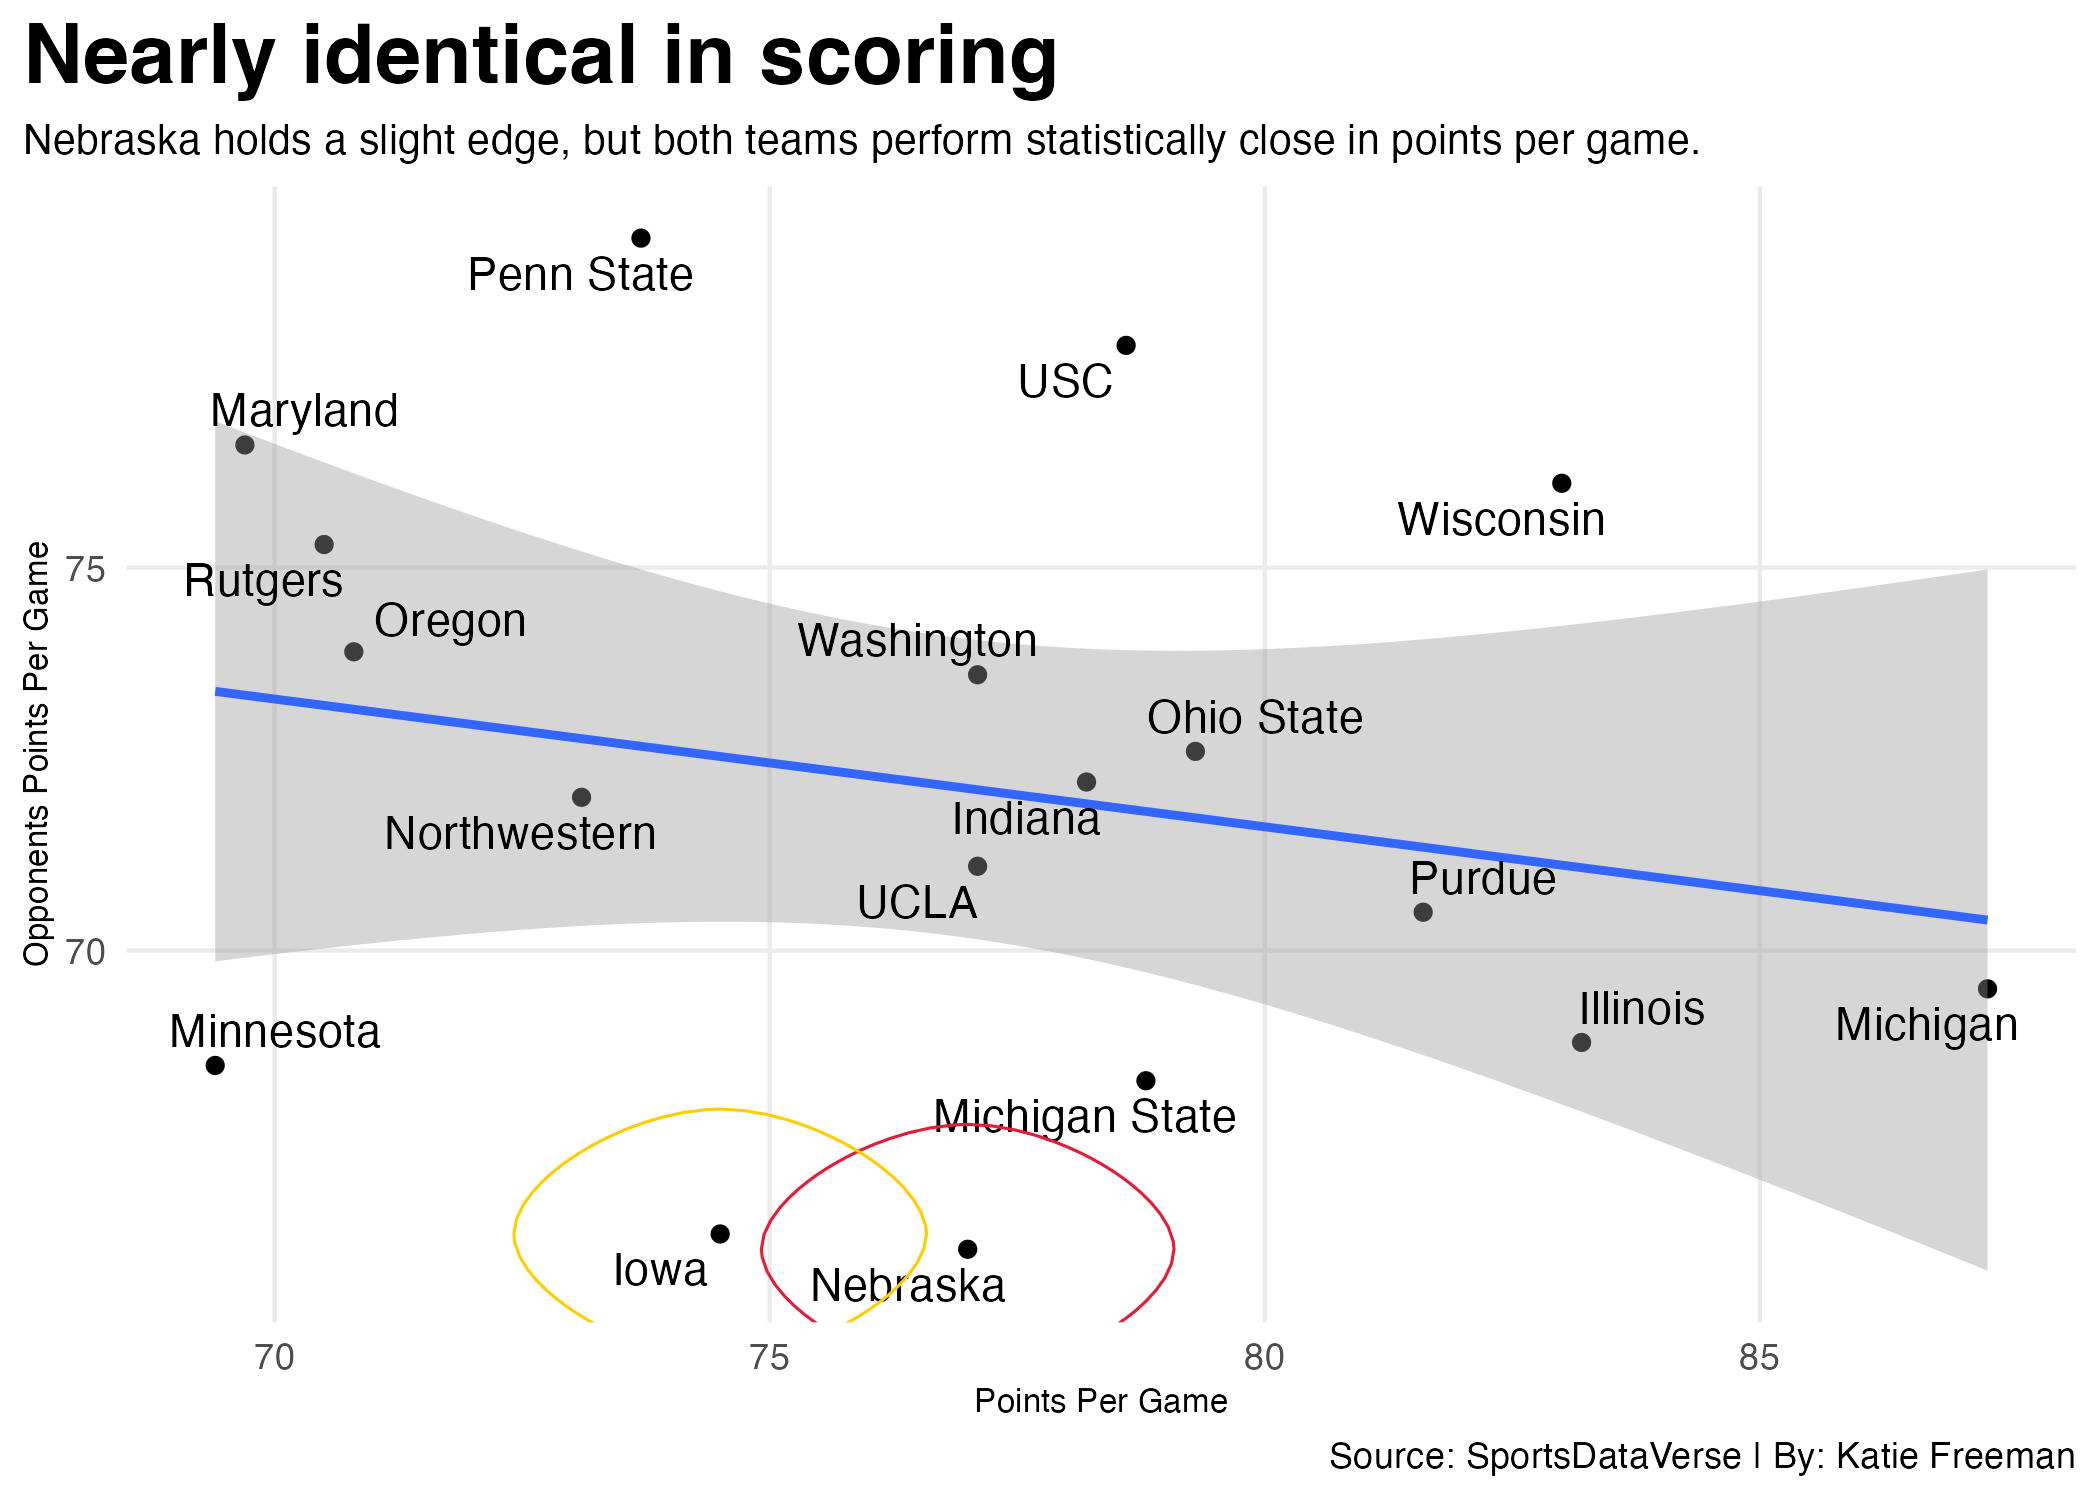
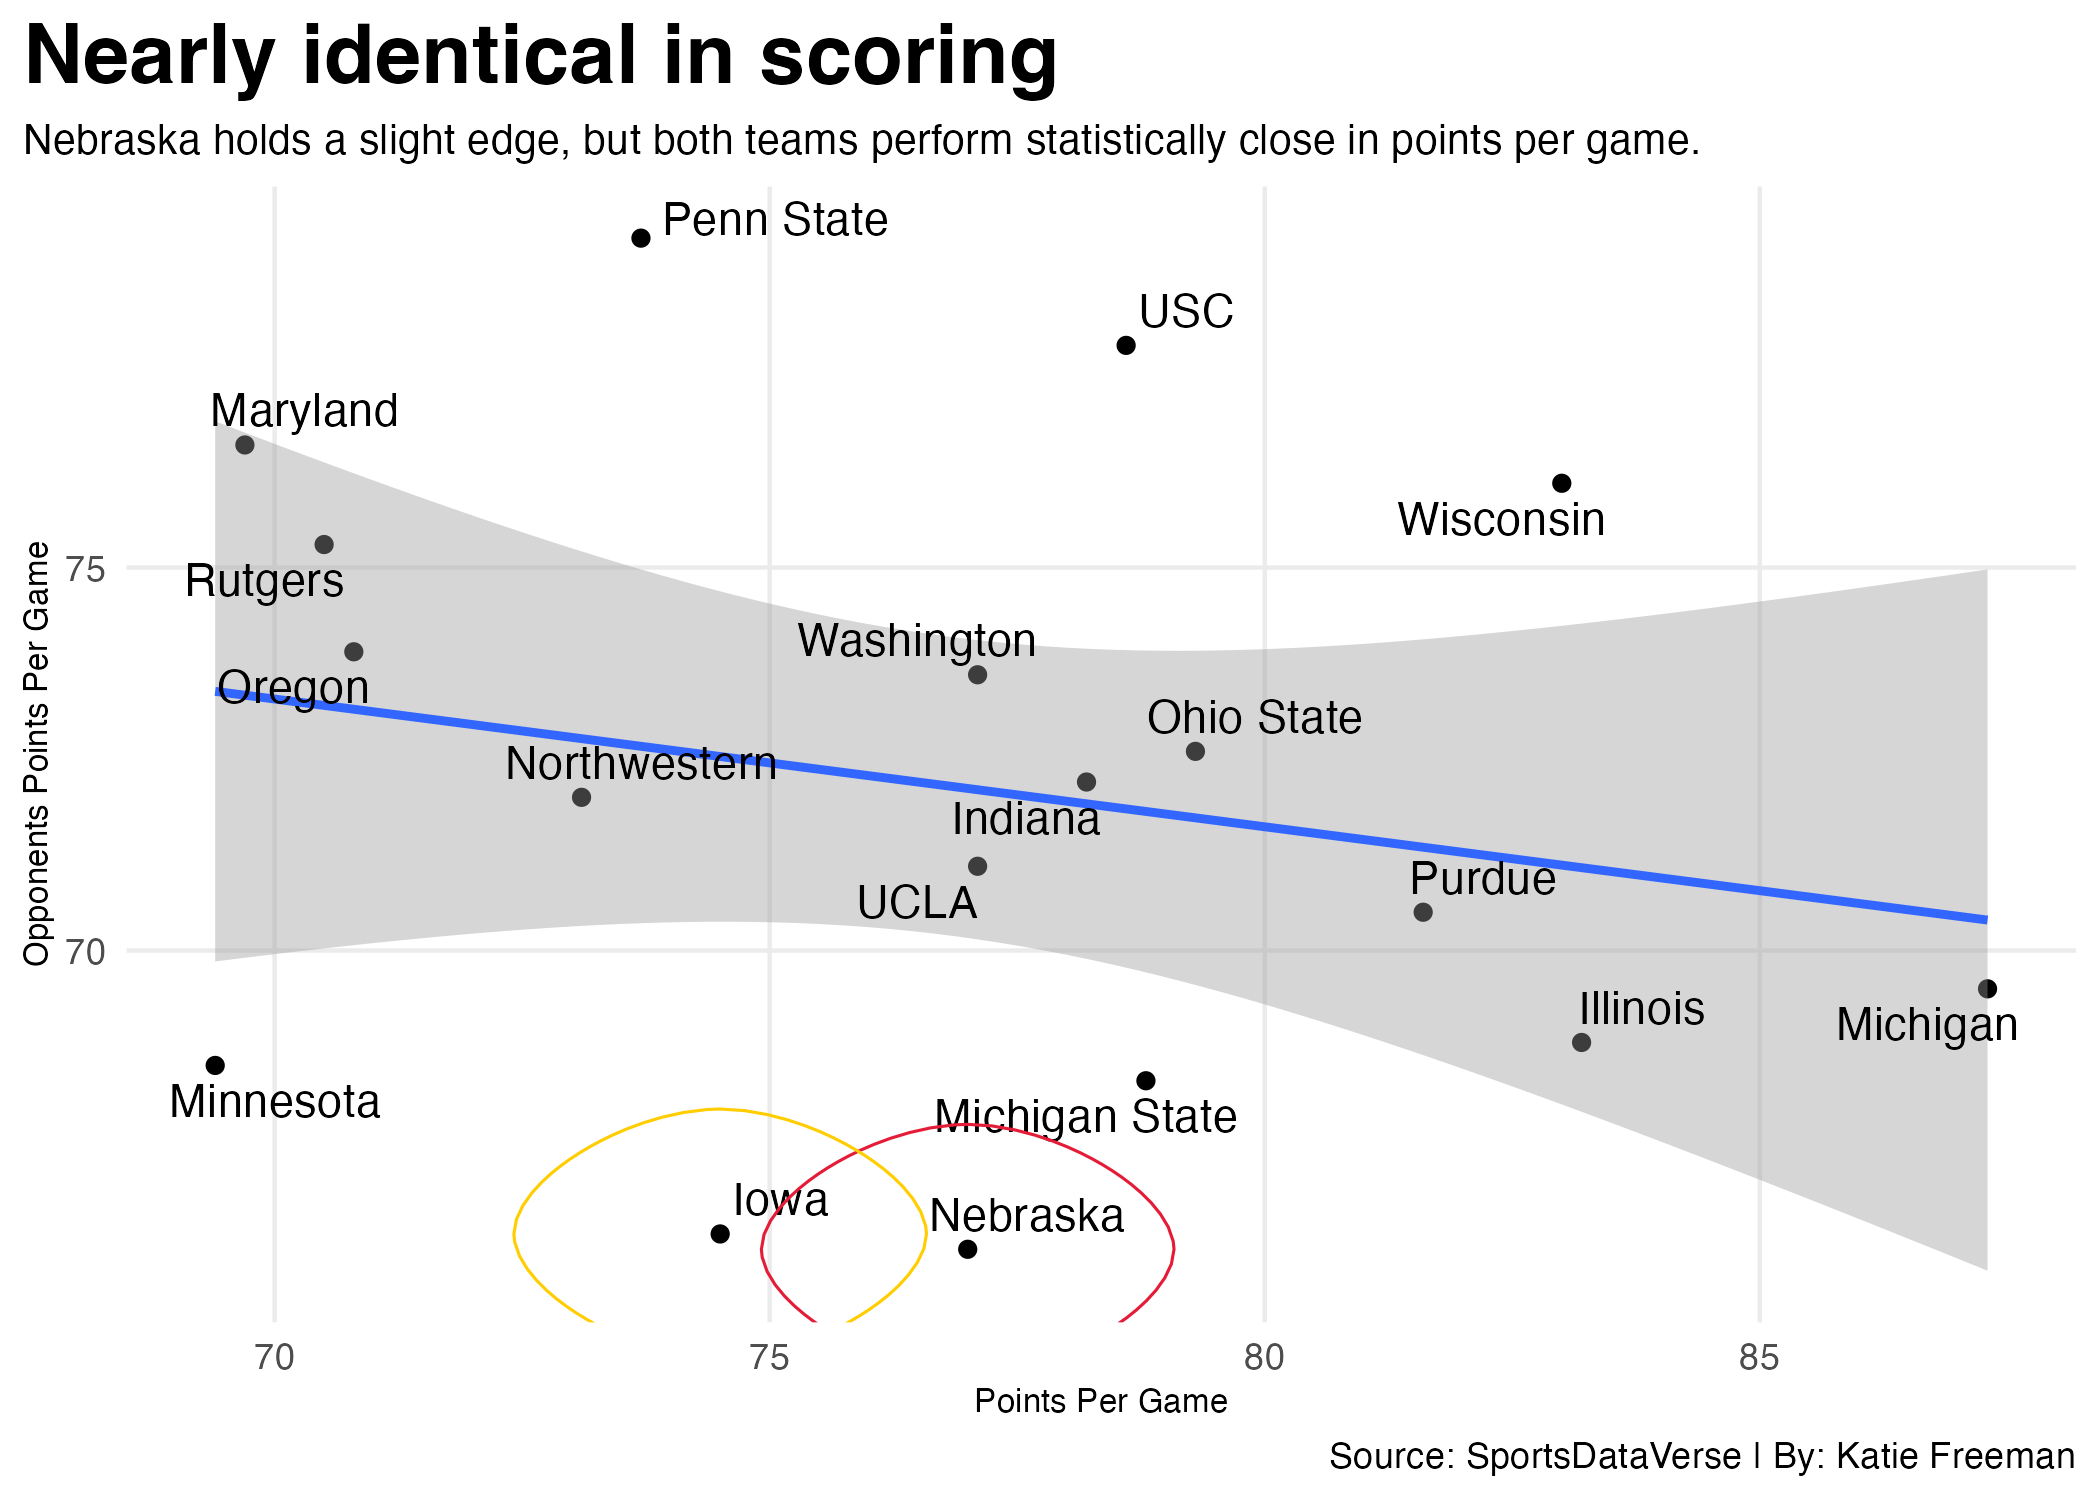
title size changes

diff --git a/posts/nebraska-iowa-mens-basketball/index.html b/posts/nebraska-iowa-mens-basketball/index.html
@@ -526,7 +526,7 @@ pre > code.sourceCode > span > a:first-child::before { text-decoration: underlin
 <span id="cb5-28"><a href="#cb5-28" aria-hidden="true" tabindex="-1"></a>    ) <span class="sc">+</span></span>
 <span id="cb5-29"><a href="#cb5-29" aria-hidden="true" tabindex="-1"></a>  <span class="fu">theme_minimal</span>() <span class="sc">+</span> </span>
 <span id="cb5-30"><a href="#cb5-30" aria-hidden="true" tabindex="-1"></a>  <span class="fu">theme</span>(</span>
-<span id="cb5-31"><a href="#cb5-31" aria-hidden="true" tabindex="-1"></a>    <span class="at">plot.title =</span> <span class="fu">element_text</span>(<span class="at">size =</span> <span class="dv">18</span>, <span class="at">face =</span> <span class="st">"bold"</span>),</span>
+<span id="cb5-31"><a href="#cb5-31" aria-hidden="true" tabindex="-1"></a>    <span class="at">plot.title =</span> <span class="fu">element_text</span>(<span class="at">size =</span> <span class="dv">16</span>, <span class="at">face =</span> <span class="st">"bold"</span>),</span>
 <span id="cb5-32"><a href="#cb5-32" aria-hidden="true" tabindex="-1"></a>    <span class="at">axis.title =</span> <span class="fu">element_text</span>(<span class="at">size =</span> <span class="dv">10</span>), </span>
 <span id="cb5-33"><a href="#cb5-33" aria-hidden="true" tabindex="-1"></a>    <span class="at">plot.subtitle =</span> <span class="fu">element_text</span>(<span class="at">size=</span><span class="dv">12</span>), </span>
 <span id="cb5-34"><a href="#cb5-34" aria-hidden="true" tabindex="-1"></a>    <span class="at">panel.grid.minor =</span> <span class="fu">element_blank</span>(),</span>

diff --git a/index.html b/index.html
@@ -373,7 +373,7 @@ window.Quarto = {
 
 <div class="quarto-listing quarto-listing-container-default" id="listing-listing">
 <div class="list quarto-listing-default">
-<div class="quarto-post image-right" data-index="0" data-categories="YmlndGVuJTJDYmFza2V0YmFsbCUyQ25lYnJhc2thJTJDaW93YQ==" data-listing-date-sort="1777266000000" data-listing-file-modified-sort="1777325804861" data-listing-date-modified-sort="NaN" data-listing-reading-time-sort="6" data-listing-word-count-sort="1134">
+<div class="quarto-post image-right" data-index="0" data-categories="YmlndGVuJTJDYmFza2V0YmFsbCUyQ25lYnJhc2thJTJDaW93YQ==" data-listing-date-sort="1777266000000" data-listing-file-modified-sort="1777326660768" data-listing-date-modified-sort="NaN" data-listing-reading-time-sort="6" data-listing-word-count-sort="1134">
 <div class="thumbnail"><a href="./posts/nebraska-iowa-mens-basketball/index.html" class="no-external">
 
 <img loading="lazy" src="./posts/nebraska-iowa-mens-basketball/image.png" class="thumbnail-image">
